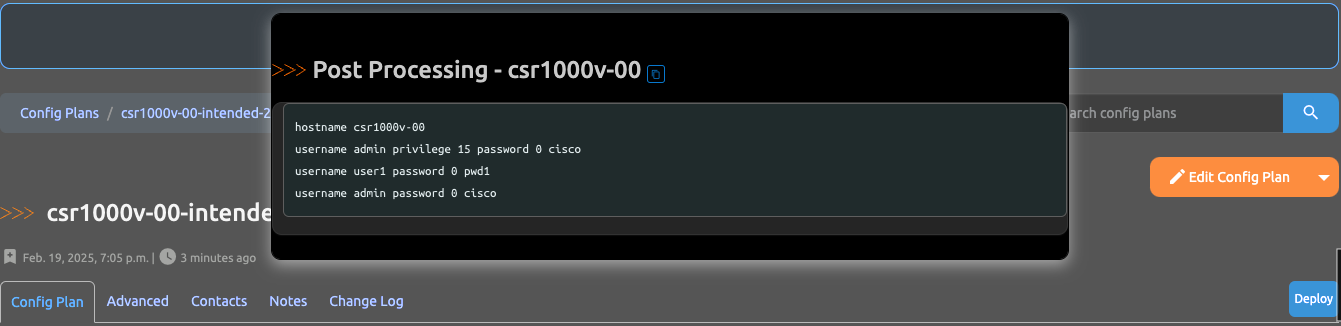
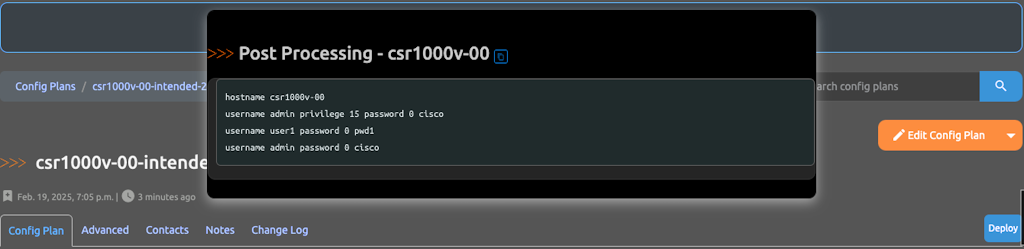
updated the images in app_use_cases, app_feature_config_postprocessing, app_feature_config_plans, and README.md.

diff --git a/docs/user/app_feature_config_plans.md b/docs/user/app_feature_config_plans.md
@@ -28,7 +28,8 @@ You can view a plan by navigating to **Golden Config -> Config Plans** and choos
 - **Job Result**: The Job that generated the plan(s).
 - **Status**: The status of the plan.
 
-![Config Plan View](../images/config_plan-view.png)
+![Config Plan View](../images/ss1_config_plan-view_light.png#only-light){ .on-glb }
+![Config Plan View](../images/ss1_config_plan-view_dark.png#only-dark){ .on-glb }
 
 ## Generating Config Plans
 
@@ -40,11 +41,14 @@ Once you have selected the appropriate options, you can click the **Generate** b
 
 ### Screenshots
 
-![Config Plan Generate Missing](../images/config_plan-generate-missing.png)
+![Config Plan Generate Missing](../images/ss1_config_plan-generate-missing_light.png#only-light){ .on-glb }
+![Config Plan Generate Missing](../images/ss1_config_plan-generate-missing_dark.png#only-dark){ .on-glb }
 
-![Config Plan Generate Filters](../images/config_plan-generate-filters.png)
+![Config Plan Generate Filters](../images/ss1_config_plan-generate-filters_light.png#only-light){ .on-glb }
+![Config Plan Generate Filters](../images/ss1_config_plan-generate-filters_dark.png#only-dark){ .on-glb }
 
-![Config Plan Generate Manual](../images/config_plan-generate-manual.png)
+![Config Plan Generate Manual](../images/ss1_config_plan-generate-manual_light.png#only-light){ .on-glb }
+![Config Plan Generate Manual](../images/ss1_config_plan-generate-manual_dark.png#only-dark){ .on-glb }
 
 ### Generating Config Plans via API
 
@@ -63,14 +67,15 @@ After a Config Plan is generated you have the ability to edit (or bulk edit) the
 !!! note
     You will not be able to modify the Config Set after generation. If it does not contain the desired commands, you will need to delete the plan and recreate it after ensuring the source of the generated commands has been updated.
 
-![Config Plan Edit](../images/config_plan-edit.png)
+![Config Plan Edit](../images/ss1_config_plan-edit_light.png#only-light){ .on-glb }
+![Config Plan Edit](../images/ss1_config_plan-edit_dark.png#only-dark){ .on-glb }
 
 If the Config Plan has post processing functions, you can render the post processed config to validate and approve a Config Plan.
 
-![Config Plan Post Processing Button](../images/config_plan_pp_button.png#only-light)
-![Config Plan Post Processing Button](../images/config_plan_pp_button-dark.png#only-dark)
+![Config Plan Post Processing Button](../images/ss1_config_plan_pp_button_light.png#only-light){ .on-glb }
+![Config Plan Post Processing Button](../images/ss1_config_plan_pp_button_dark.png#only-dark){ .on-glb }
 
 Post Processing occurs in a modal popup, and allows a user to view the configuration before approving the Config Plan.
 
-![Intended Configuration Web UI](../images/config_plan_pp-rendered.png#only-light)
-![Intended Configuration Web UI](../images/config_plan_pp-rendered-dark.png#only-dark)
+![Intended Configuration Web UI](../images/config_plan_pp-rendered.png#only-light){ .on-glb }
+![Intended Configuration Web UI](../images/config_plan_pp-rendered-dark.png#only-dark){ .on-glb }

diff --git a/README.md b/README.md
@@ -39,18 +39,18 @@ There are many features and capabilities the app provides into the Nautobot ecos
 
 The golden configuration is driven by jobs that run a series of tasks and the result is captured in this overview.
 
-![Overview](https://raw.githubusercontent.com/nautobot/nautobot-app-golden-config/develop/docs/images/ss_golden-overview.png)
+![Overview](https://raw.githubusercontent.com/nautobot/nautobot-app-golden-config/develop/docs/images/ss1_ss_golden-overview_dark.png)
 
 The compliance report provides a high-level overview on the compliance of your network.
-![Compliance Report](https://raw.githubusercontent.com/nautobot/nautobot-app-golden-config/develop/docs/images/ss_compliance-report.png)
+![Compliance Report](https://raw.githubusercontent.com/nautobot/nautobot-app-golden-config/develop/docs/images/ss1_ss_compliance-report_dark.png)
 
 The compliance overview will provide a per device and feature overview on the compliance of your network devices.
-![Compliance Overview](https://raw.githubusercontent.com/nautobot/nautobot-app-golden-config/develop/docs/images/ss_compliance-overview.png)
+![Compliance Overview](https://raw.githubusercontent.com/nautobot/nautobot-app-golden-config/develop/docs/images/ss1_ss_compliance-overview_dark.png)
 
 Drilling into a specific device and feature, you can get an immediate detailed understanding of your device.
-![Compliance Device](https://raw.githubusercontent.com/nautobot/nautobot-app-golden-config/develop/docs/images/ss_compliance-device.png)
+![Compliance Device](https://raw.githubusercontent.com/nautobot/nautobot-app-golden-config/develop/docs/images/ss1_ss_compliance-device_dark.png)
 
-![Compliance Rule](https://raw.githubusercontent.com/nautobot/nautobot-app-golden-config/develop/docs/images/ss_compliance-rule.png)
+![Compliance Rule](https://raw.githubusercontent.com/nautobot/nautobot-app-golden-config/develop/docs/images/ss1_ss_compliance-rule_dark.png)
 
 ## Try it out!
 

diff --git a/docs/user/app_use_cases.md b/docs/user/app_use_cases.md
@@ -265,8 +265,10 @@ The golden configuration is driven by jobs that run a series of tasks and the re
 ![Overview](../images/ss1_ss_golden-overview_dark.png#only-dark){ .on-glb }
 
 The compliance report provides a high-level overview on the compliance of your network.
-![Compliance Report](../images/ss1_ss_compliance-report_light.png#only-light){ .on-glb }
-![Compliance Report](../images/ss1_ss_compliance-report_dark.png#only-dark){ .on-glb }
+![Compliance Report](../images/ss1_ss_compliance-report_1_light.png#only-light){ .on-glb }
+![Compliance Report](../images/ss1_ss_compliance-report_1_dark.png#only-dark){ .on-glb }
+![Compliance Report](../images/ss1_ss_compliance-report_2_light.png#only-light){ .on-glb }
+![Compliance Report](../images/ss1_ss_compliance-report_2_dark.png#only-dark){ .on-glb }
 
 The compliance overview will provide a per device and feature overview on the compliance of your network devices.
 ![Compliance Overview](../images/ss1_ss_compliance-overview_light.png#only-light){ .on-glb }

diff --git a/docs/user/app_feature_config_postprocessing.md b/docs/user/app_feature_config_postprocessing.md
@@ -23,7 +23,8 @@ From a user perspective, you can retrieve this configuration using two methods:
 - **UI**: In the `Device` detail view, if the feature is enabled, a new row appears under "Configuration Types." Clicking the icon renders the new configuration on the fly (synchronously). See the figure below for reference.
 - **REST API**: You can request the processed intended configuration at the path `/api/plugins/golden-config/config-postprocessing/{device_id}`. The return payload will contain a "config" key with the rendered configuration.
 
-![Configuration Postprocessing](../images/config_postprocessing_1.png)
+![Configuration Postprocessing](../images/ss1_config_postprocessing_1_light.png#only-light){ .on-glb }
+![Configuration Postprocessing](../images/ss1_config_postprocessing_1_dark.png#only-dark){ .on-glb }
 
 ## Customizing Configuration Processing
 
